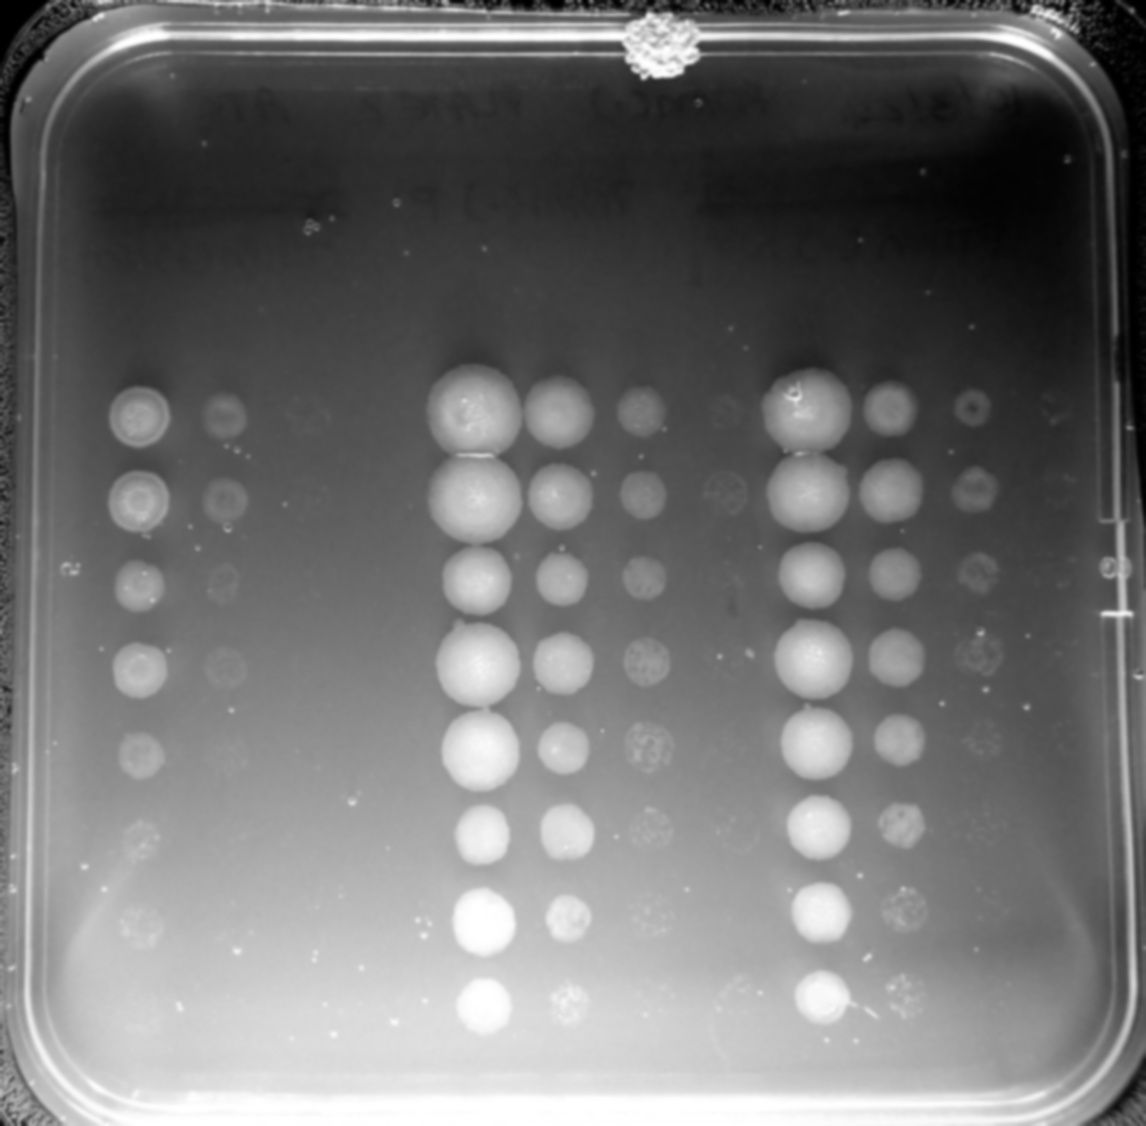
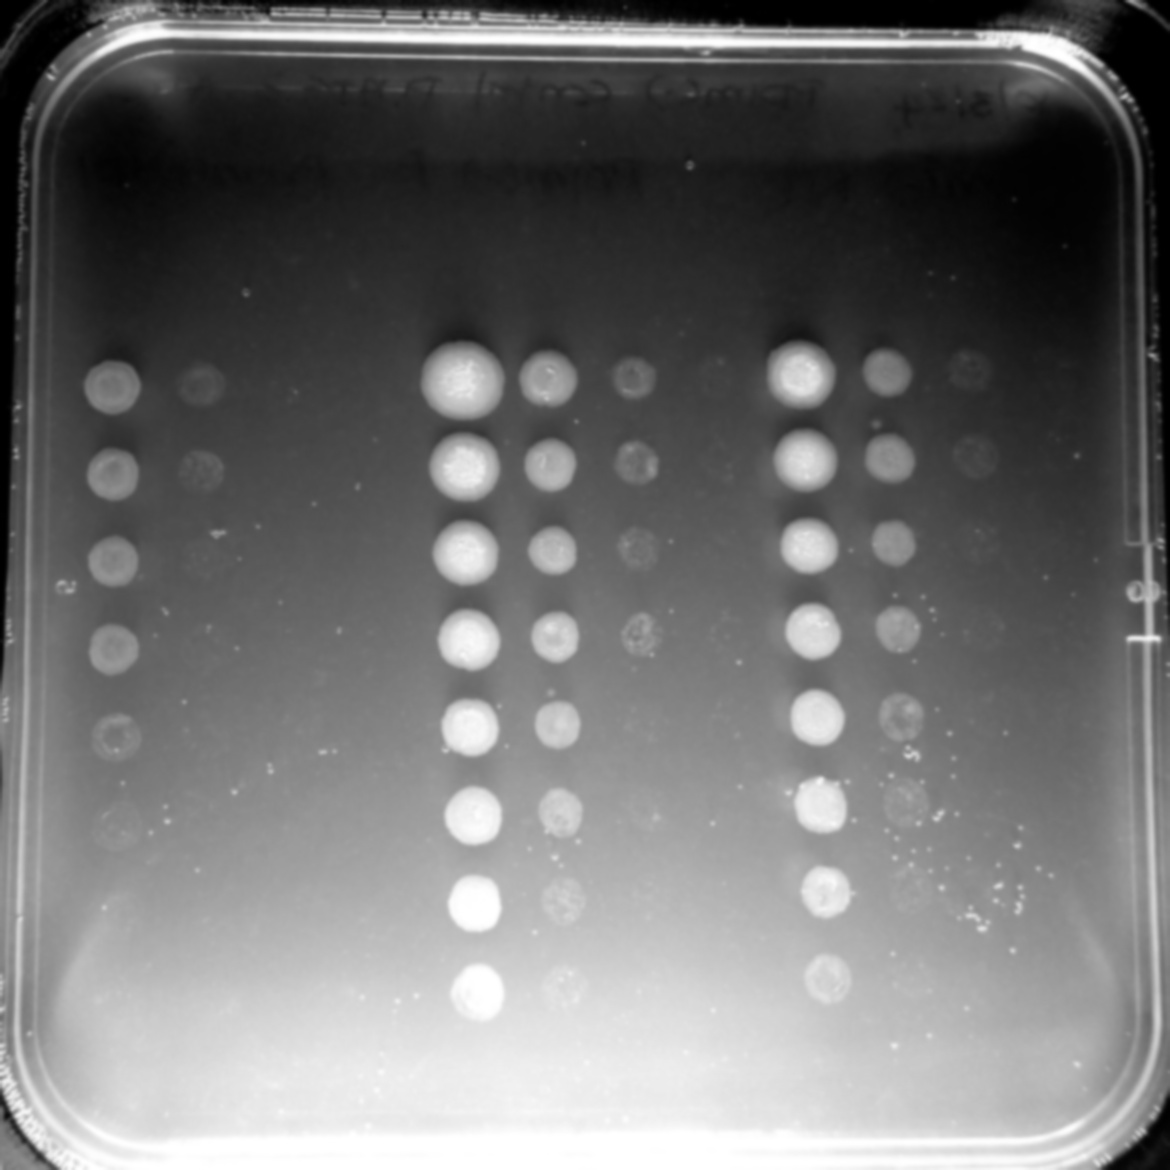
About to clean up code

diff --git a/CODE/Processing.py b/CODE/Processing.py
@@ -140,7 +140,7 @@ def stretch_and_gray(original_image, show_images=False):
  
 def binarize(gray_image, original_image, contrast=20, excludeSmallDots=15, block_size=301, show_images=False):
     #make it into a binart image using adaptive thresholding  
-    c = max(-50, min(int(-contrast), -1))-5
+    c = max(-50, min(int(-contrast), -1))
     cv2.imwrite('gray_image.jpg', gray_image)
     binary_image = cv2.adaptiveThreshold(gray_image, 255, cv2.ADAPTIVE_THRESH_MEAN_C,
                                        cv2.THRESH_BINARY, block_size, c)  
